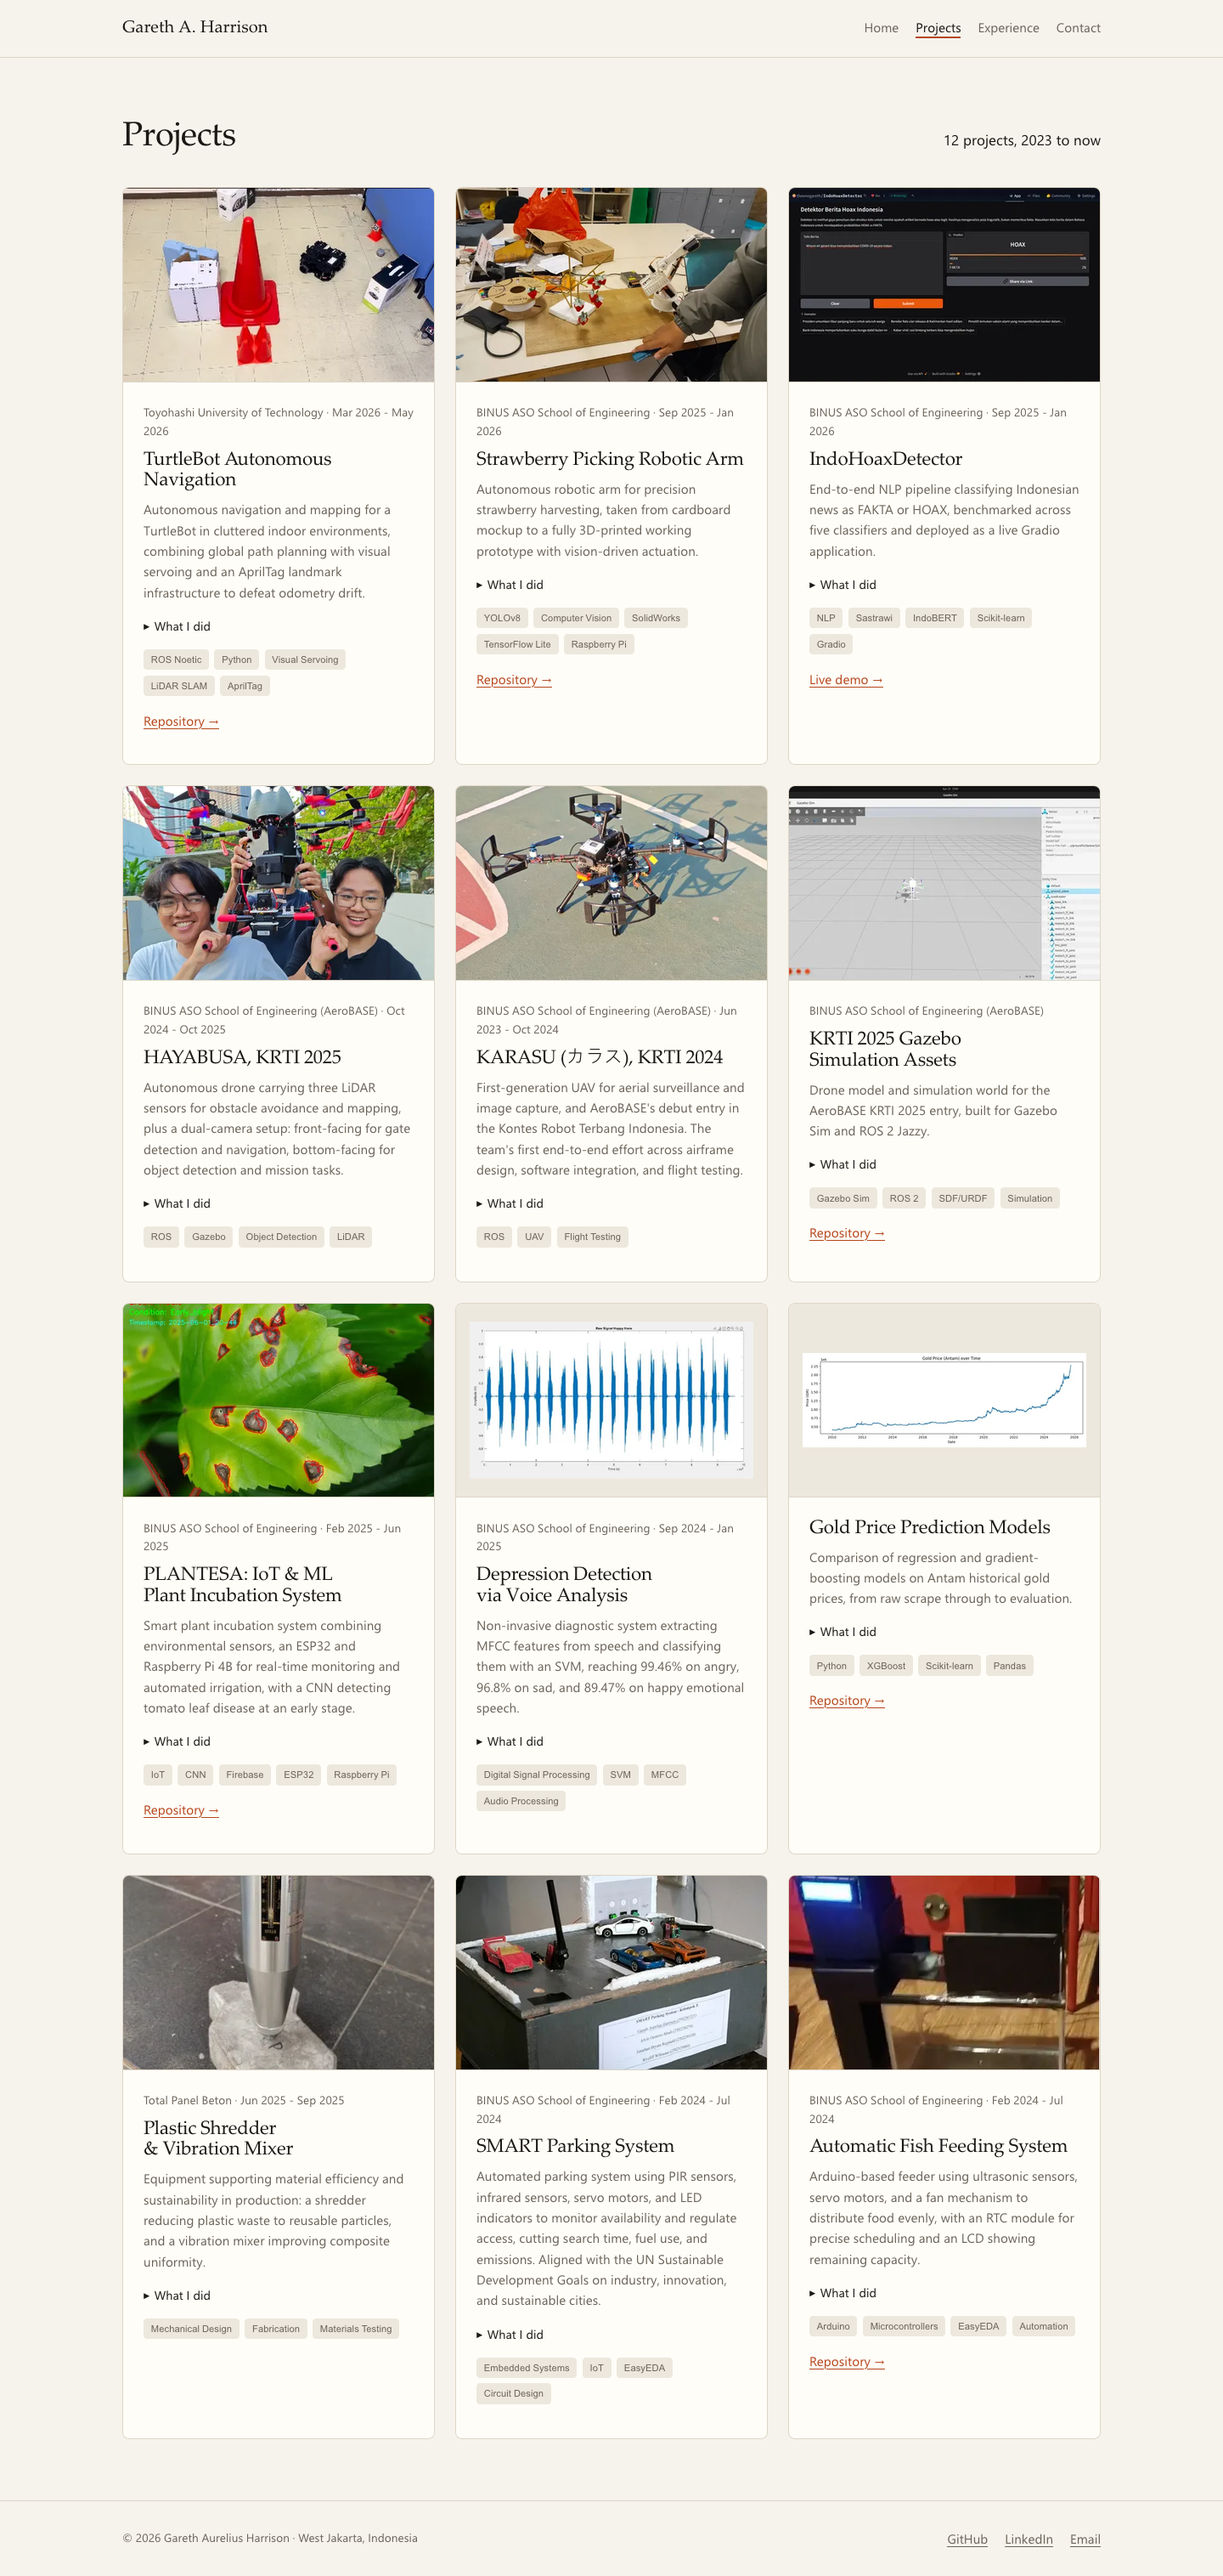
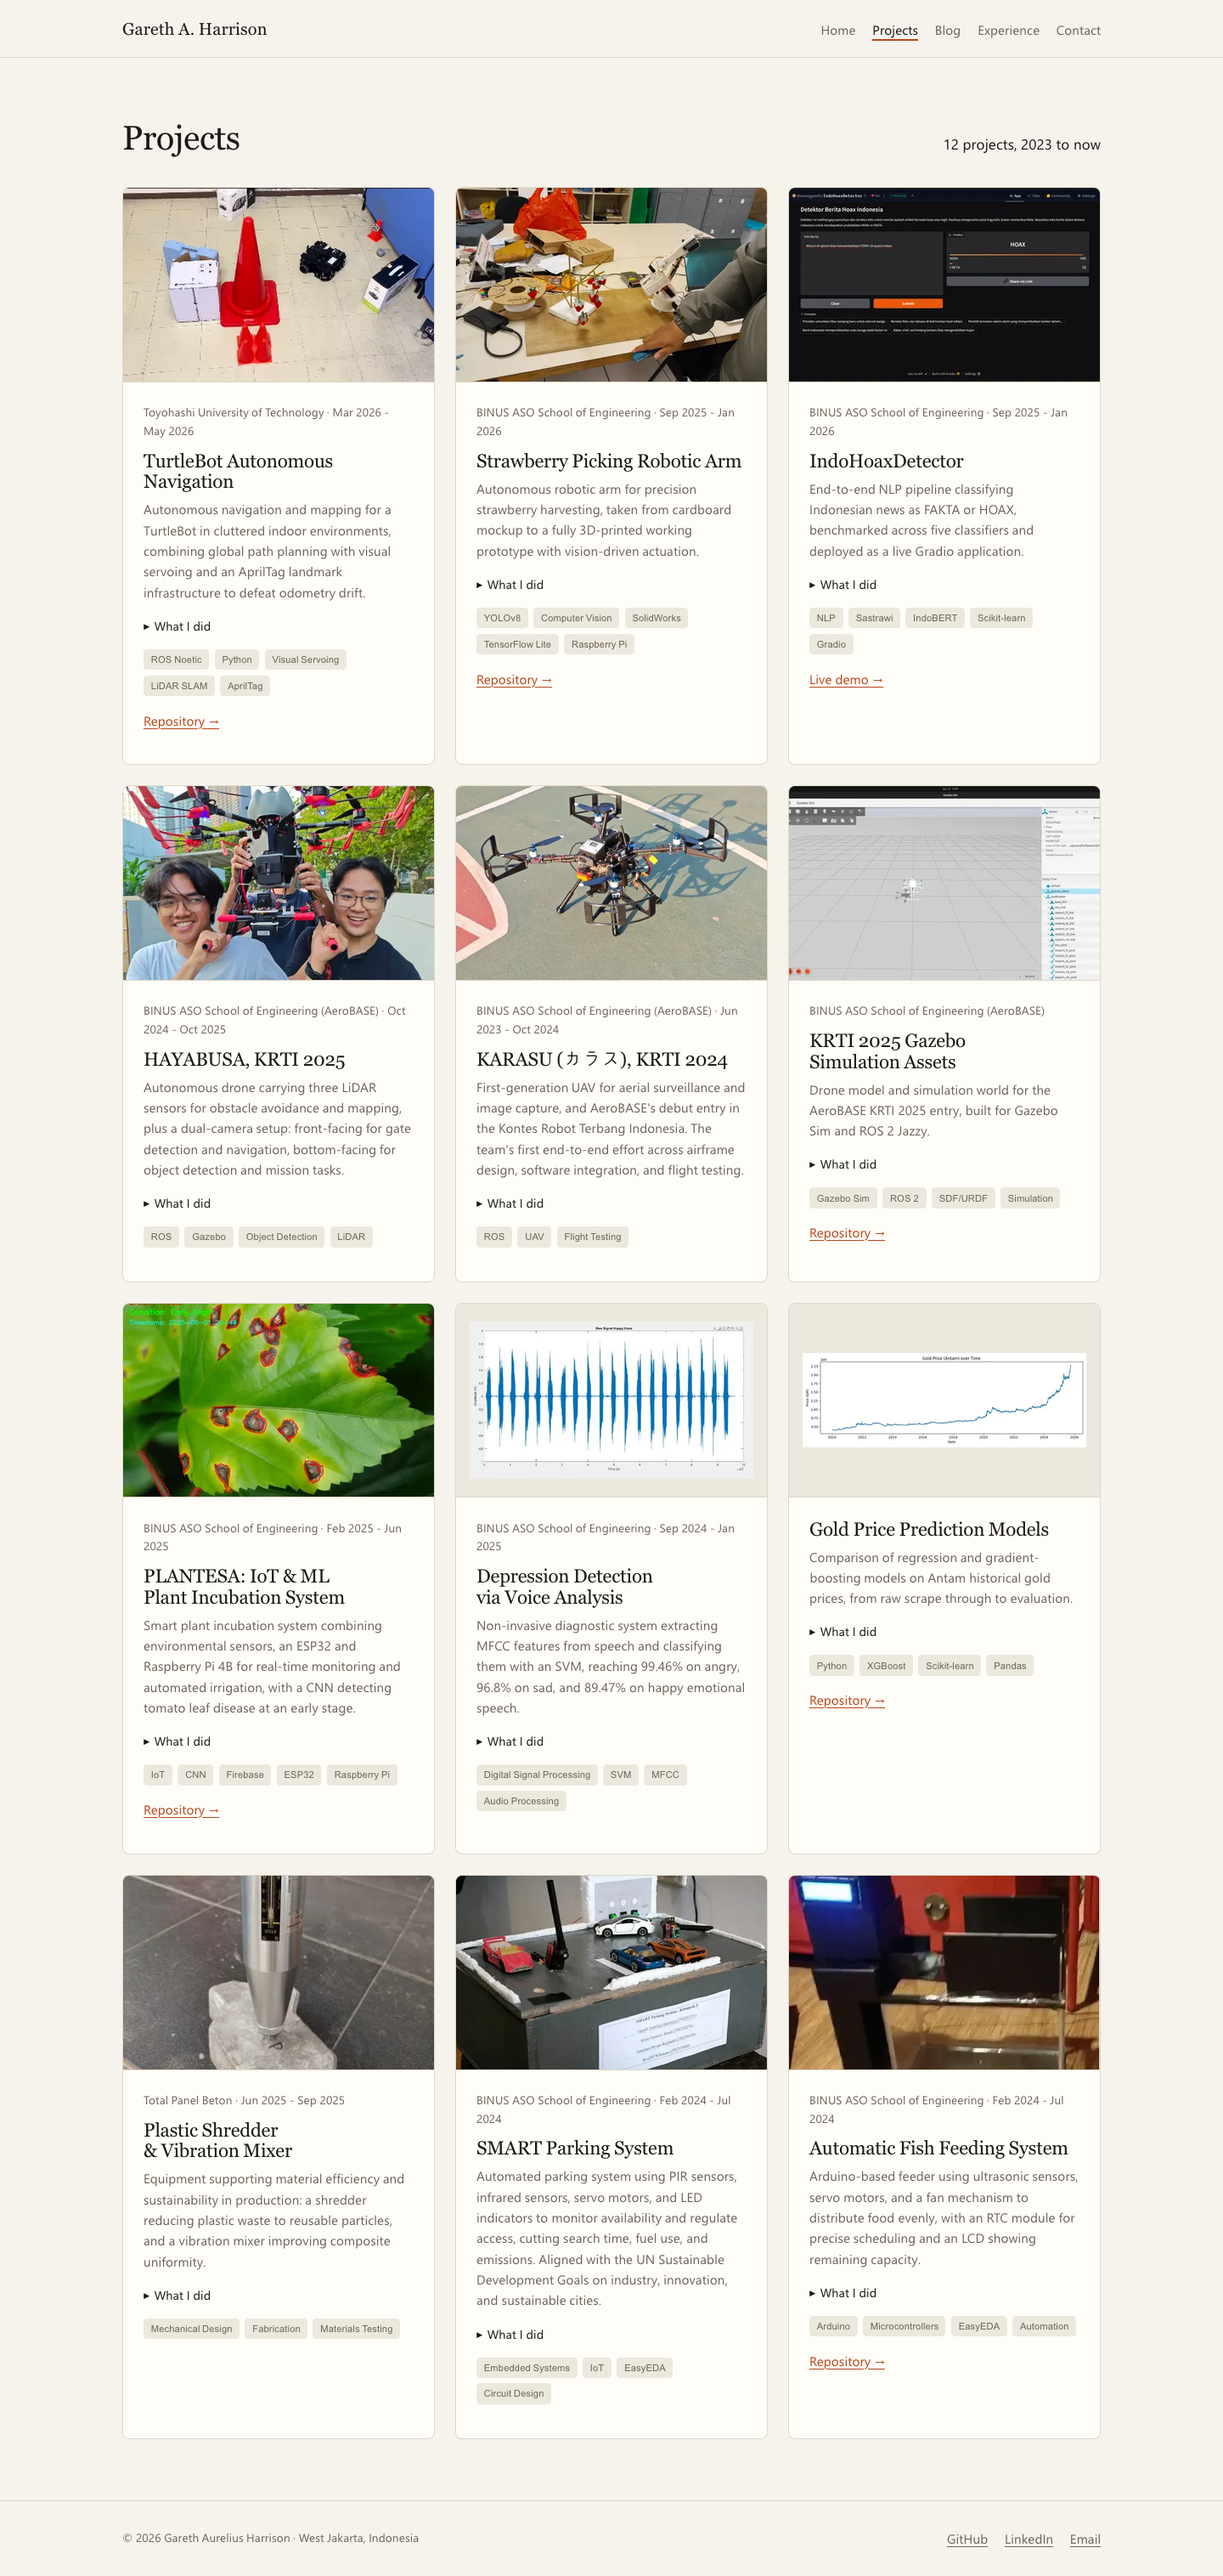
✨ feat(web): surface the blog now that a post is live
- put Blog back in the header nav
- drop the sitemap filter that hid /blog/ while every post was a draft
- style fenced code blocks: light and dark Shiki themes, surface background, scroll on overflow
- space the blog index heading and the post date
- refresh docs/screenshots

diff --git a/src/styles/global.css b/src/styles/global.css
@@ -90,6 +90,29 @@ code {
 	border-radius: 4px;
 }
 
+pre {
+	margin: 0 0 1.25rem;
+	padding: 1rem 1.25rem;
+	border: 1px solid var(--border);
+	border-radius: var(--radius);
+	overflow-x: auto;
+	font-size: 0.9rem;
+	line-height: 1.5;
+	background: var(--surface) !important;
+}
+
+pre code {
+	background: none;
+	padding: 0;
+	font-size: inherit;
+}
+
+@media (prefers-color-scheme: dark) {
+	.astro-code span {
+		color: var(--shiki-dark) !important;
+	}
+}
+
 time {
 	color: var(--fg-muted);
 	font-size: 0.85rem;
@@ -578,6 +601,11 @@ section + section {
 .prose h1 {
 	font-size: clamp(2.2rem, 5vw, 3.2rem);
 	margin: 0 0 0.5rem;
+}
+
+.prose h1 + time {
+	display: block;
+	margin-bottom: 2.5rem;
 }
 
 .prose h2 {
